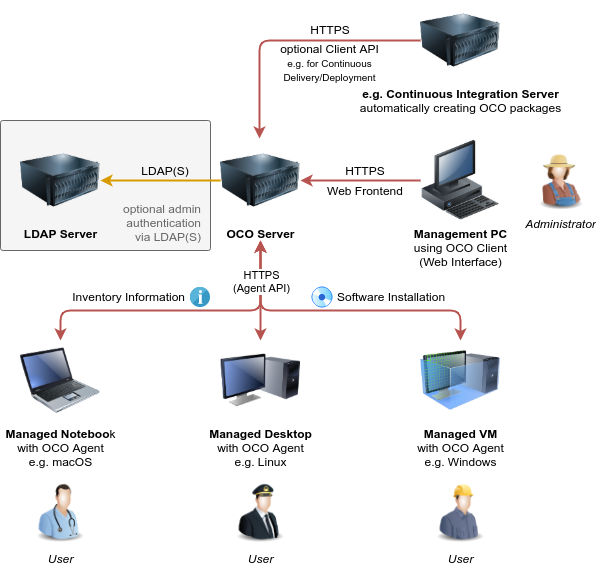
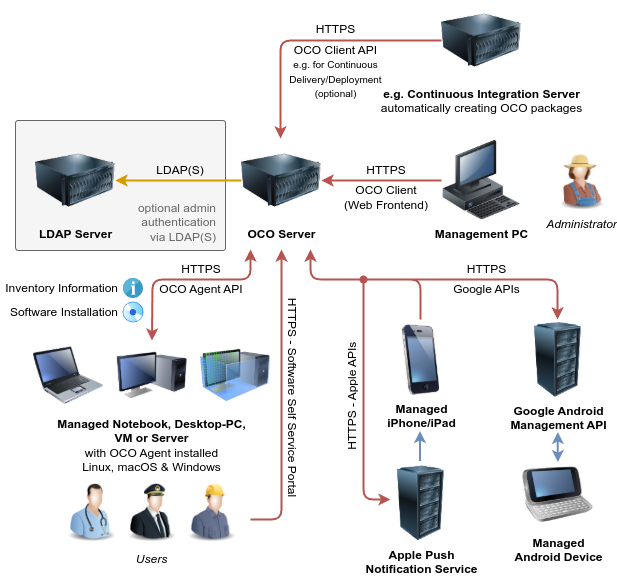
MDM infos

Changed region(s): [[0.0, 0.2099, 1.0, 1.0], [0.4228, 0.0, 0.9362, 0.2399], [0.8154, 0.9295, 0.9966, 0.9894]]

diff --git a/README.md b/README.md
@@ -3,9 +3,9 @@
 # Open Computer Orchestration
 **Self Hosted / On Premise Desktop and Server Inventory, Management & Software Deployment**
 
-The Open Computer Orchestration (OCO) project enables IT administrators to centrally manage Linux, macOS and Windows machines using a comfortable web interface. It provides software deployment features, a user-computer logon overview, lists software packages installed on each computer ("recognised software") and features a fine-grained permission/role system.
+The Open Computer Orchestration (OCO) project enables IT administrators to centrally manage Linux, macOS and Windows machines plus Android and iOS (Mobile Device Management) using a comfortable web interface. It provides software deployment features, a user-computer logon overview, policy management, lists software packages installed on each computer ("recognised software/apps") and features a fine-grained permission/role system.
 
-It focuses on easy usability (UI/UX), simplicity (assessable code with minimal external dependencies) and performance (you can manage many computers with minimal server resources).
+It focuses on easy usability (UI/UX), simplicity (assessable code with minimal external dependencies) and performance (manage many devices with minimal server resources).
 
 These features allow you to roll out any new software or updates (patch management) - just create an OCO package and distribute it to your clients. You can track progress and view the results (exit code and command output) of every software job. Custom reports let you to get even more out of your data.
 
